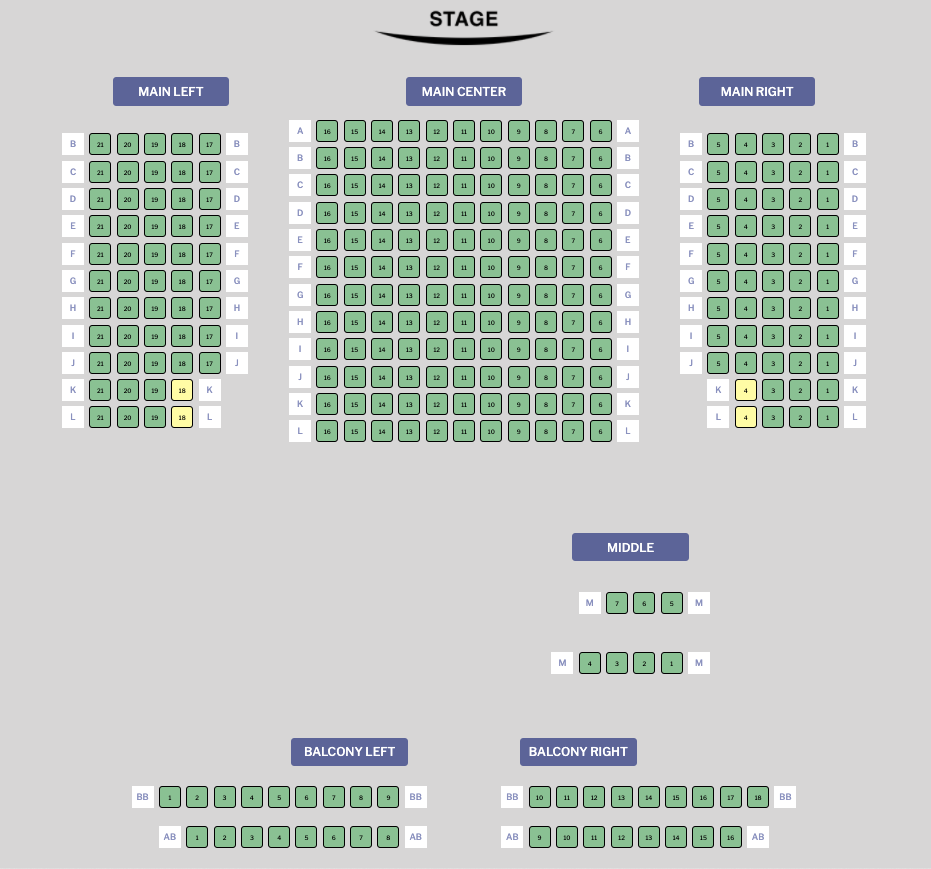
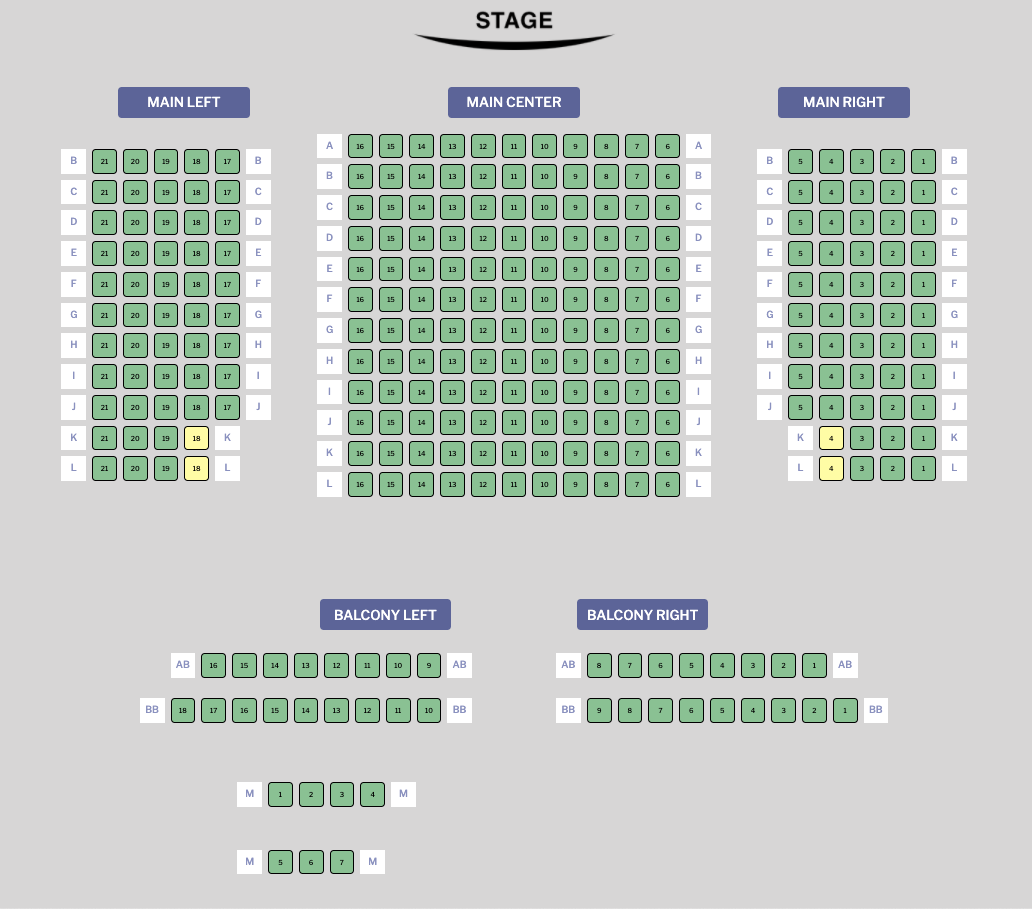
new venues

diff --git a/Completed/27923.html b/Completed/27923.html
@@ -1,15 +1,6 @@
-<!-- Finke Theatre -->
-<style>
-  .space-out > #seat-map > table > tbody > tr {
-    height: 90px;
-  }
-
-  .space-out-2 > #seat-map > table > tbody > tr {
-    height: 60px;
-  }
-</style>
-
+<!-- Richards High School -->
 <table width="100%" border="0" cellspacing="0" cellpadding="0" align="center">
+
   <!-- Stage Image -->
   <tr> 
     <td>
@@ -22,7 +13,7 @@
   <tr>
     <td>
       <div align="center">
-        <img src="https://s3.amazonaws.com/prdv2-dt-client/seating_images/pixel.png" width="35" height="5">
+        <img src="https://s3.amazonaws.com/prdv2-dt-client/seating_images/pixel.png" width="35" height="150">
       </div>
     </td>
   </tr>
@@ -35,8 +26,8 @@
           <!-- Front Names -->
           <tr> 
             <td>
-              <div align="right">
-                {{{ sectionNames.39437 }}}
+              <div class="adjust rotate25R" align="right" style="position: relative; bottom: 110px; left: 30px;">
+                {{{ sectionNames.39463 }}}
               </div>
             </td>
             <td>
@@ -46,7 +37,7 @@
             </td>
             <td>
               <div align="center">
-                {{{ sectionNames.39438 }}}
+                {{{ sectionNames.39464 }}}
               </div>
             </td>
             <td>
@@ -55,8 +46,8 @@
               </div>
             </td>
             <td>
-              <div align="left">
-                {{{ sectionNames.39439 }}}
+              <div class="adjust rotate25L" align="left" style="position: relative; bottom: 110px; right: 30px;">
+                {{{ sectionNames.39465 }}}
               </div>
             </td>
           </tr>
@@ -64,8 +55,8 @@
           <!-- Front Seats -->
           <tr> 
             <td>
-              <div align="left">
-                {{{ sectionsMarkup.39437 }}}
+              <div class="adjust rotate25R" align="center" style="position: relative; bottom: 100px;">
+                {{{ sectionsMarkup.39463 }}}
               </div>
             </td>
             <td>
@@ -75,7 +66,7 @@
             </td>
             <td>
               <div align="center">
-                {{{ sectionsMarkup.39438 }}}
+                {{{ sectionsMarkup.39464 }}}
               </div>
             </td>
             <td>
@@ -84,8 +75,8 @@
               </div>
             </td>
             <td>
-              <div align="right">
-                {{{ sectionsMarkup.39439 }}}
+              <div class="adjust rotate25L" align="center" style="position: relative; bottom: 100px;">
+                {{{ sectionsMarkup.39465 }}}
               </div>
             </td>
           </tr>
@@ -97,7 +88,7 @@
   <tr>
     <td>
       <div align="center">
-        <img src="https://s3.amazonaws.com/prdv2-dt-client/seating_images/pixel.png" width="35" height="100">
+        <img src="https://s3.amazonaws.com/prdv2-dt-client/seating_images/pixel.png" width="75" height="75">
       </div>
     </td>
   </tr>
@@ -110,18 +101,28 @@
           <!-- Back Names -->
           <tr> 
             <td>
-              <div align="right">
-                {{{ sectionNames.39460 }}}
+              <div class="adjust rotate25R" align="right" style="position: relative; bottom: 210px;">
+                {{{ sectionNames.39466 }}}
               </div>
             </td>
             <td>
               <div align="center">
-                <img src="https://s3.amazonaws.com/prdv2-dt-client/seating_images/pixel.png" width="100" height="1">
+                <img src="https://s3.amazonaws.com/prdv2-dt-client/seating_images/pixel.png" width="200" height="1">
               </div>
             </td>
             <td>
-              <div align="left">
-                {{{ sectionNames.39461 }}}
+              <div align="center">
+                {{{ sectionNames.39467 }}}
+              </div>
+            </td>
+            <td>
+              <div align="center">
+                <img src="https://s3.amazonaws.com/prdv2-dt-client/seating_images/pixel.png" width="200" height="1">
+              </div>
+            </td>
+            <td>
+              <div class="adjust rotate25L" align="left" style="position: relative; bottom: 210px;">
+                {{{ sectionNames.39468 }}}
               </div>
             </td>
           </tr>
@@ -129,44 +130,28 @@
           <!-- Back Seats -->
           <tr> 
             <td>
-              <div class="space-out-2" align="right">
-                {{{ sectionsMarkup.39460 }}}
+              <div class="adjust rotate25R" align="right" style="position: relative; bottom: 190px;">
+                {{{ sectionsMarkup.39466 }}}
               </div>
             </td>
             <td>
               <div align="center">
-                <img src="https://s3.amazonaws.com/prdv2-dt-client/seating_images/pixel.png" width="100" height="1">
+                <img src="https://s3.amazonaws.com/prdv2-dt-client/seating_images/pixel.png" width="200" height="1">
               </div>
             </td>
             <td>
-              <div class="space-out-2" align="left">
-                {{{ sectionsMarkup.39461 }}}
+              <div align="center">
+                {{{ sectionsMarkup.39467 }}}
               </div>
             </td>
-          </tr>
-        </table>
-      </div>
-    </td>
-  </tr>
-
-  <tr>
-    <td>
-      <div align="center">
-        <img src="https://s3.amazonaws.com/prdv2-dt-client/seating_images/pixel.png" width="35" height="35">
-      </div>
-    </td>
-  </tr>
-
-  <!-- FAR BACK -->
-  <tr>
-    <td>
-      <div align="center" style="position: relative; right: 250px;">
-        <table align="center">            
-          <!-- M Seats -->
-          <tr> 
             <td>
-              <div class="space-out" align="left">
-                {{{ sectionsMarkup.39462 }}}
+              <div align="center">
+                <img src="https://s3.amazonaws.com/prdv2-dt-client/seating_images/pixel.png" width="200" height="1">
+              </div>
+            </td>
+            <td>
+              <div class="adjust rotate25L" align="left" style="position: relative; bottom: 190px;">
+                {{{ sectionsMarkup.39468 }}}
               </div>
             </td>
           </tr>
